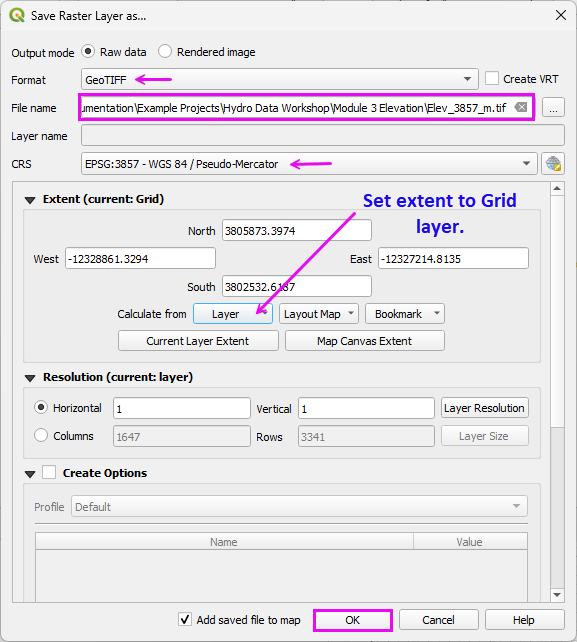
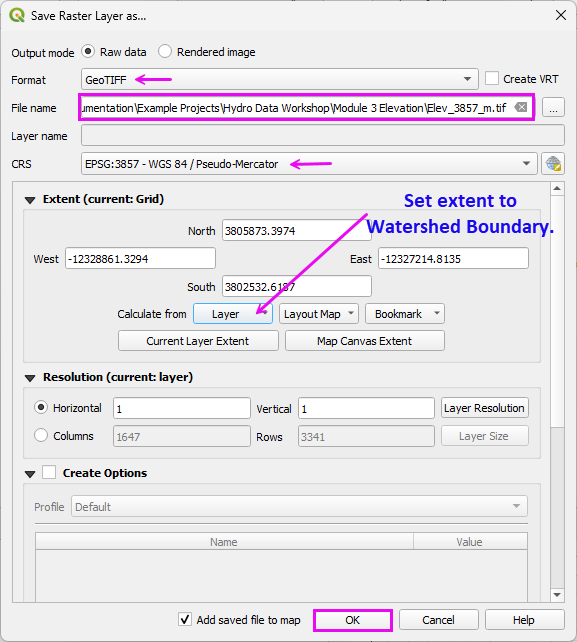
update delineate watershed section

Changed region(s): [[0.4991, 0.2804, 0.9671, 0.4361], [0.4679, 0.4361, 0.4991, 0.4673], [0.4367, 0.4673, 0.4679, 0.4984]]

diff --git a/source/tutorials/hydrowkshp/hydrowkshp.rst b/source/tutorials/hydrowkshp/hydrowkshp.rst
@@ -180,7 +180,7 @@ Module 2 - Delineate a Watershed
 Step 1: Load data
 +++++++++++++++++++++++++++++++++++++++++++++++++++
 
-Open the Data Source Manager and find the WCS tab.
+Open the Data Source Manager and find the ArcGIS REST tab.
 
 Connect the National Hydrography data server.
 
@@ -198,21 +198,66 @@ Wait for the watershed polygons to load.
 
 Use the Select tool to select a watershed polygon.
 
+.. note:: This watershed is already part of the project.  
+   Download it again to learn the process and to get an editable copy.
+
 |hydrow017|
 
-Step 3: Watershed export
+Step 3: Polygon export
 +++++++++++++++++++++++++++++++++++++++++++++++++++
 
 It is easy to export a single watershed polygon or a group of watershed polygons as a Project Domain.
-These can be used for FLO-2D or HEC-RAS 2D or any other 2D model.
+These can be used for FLO-2D or any other 2D model.
 
 Right click the **WBDHU12** layer and click **Export Data>>Save Features As**.
 
 |hydrow018|
 
-Fill the form and export the **Project Domain**.
+Fill the form and export the **Watershed Polygon**.
+
+.. note:: This file needs to use EPSG:3857 because that is also the native elevation CRS.
 
 |hydrow019|
+
+Step 4: Load the Flow Lines
++++++++++++++++++++++++++++++++
+
+Open the Data Manager tool and Load the ArcGIS REST tab.
+
+Select the Hydrography layer and click Connect.
+
+Select the Flowlines Raster and click ADD.
+
+|hydrow019a|
+
+This project uses Soldier Canyon which is the streamline on the north-east side of the map.
+
+|hydrow019b|
+
+Step 5: Trim the Watershed Polygon 
++++++++++++++++++++++++++++++++++++++++
+
+Select the Layer **Watershed Boundary 3857**.
+
+Click the **Edit Pencil**.
+
+Select the **Vertext Tool**
+
+Delete the vertex points that are outside the flow line extent of the Project Area.
+
+.. hint:: Press Ctrl+Z to undo unintended deletions. If the changes are beyond recovery with Undo, toggle off editing mode and decline the save to revert to the last committed state.
+
+Once finished, click untoggle the editor and click Save.
+
+|hydrow019c|
+
+This is the rough project extent.
+
+
+|hydrow019d|
+
+
+
 
 Module 3 - Process Elevation Data
 --------------------------------------
@@ -220,20 +265,17 @@ Module 3 - Process Elevation Data
 Step 1: Zoom to boundary
 +++++++++++++++++++++++++++++++++++++++++++++++++++
 
-Find the Small Boundary layer in External Layer Group.
-
-Right click the Small Boundary and click Zoom to Layer.
+Zoom to the Watershed Boundary.
 
 |hydrow020|
 
 Step 2: Load elevation data
 +++++++++++++++++++++++++++++++++++++++++++++++++++
 
-.. note:: If the process is taking too long, be sure to double check the Extent.
+.. important:: 
+   If the process is taking too long, cancel the download using the Progress Bar and check the extent.
 
-Cancel the connection by **unchecking** the DEP3 layer Cancel the download by clicking the **progress bar** and clicking cancel.
-
-.. important:: Local Agency data may be of better quality than 3DEP data.
+   Local Agency data may be of better quality than 3DEP data.
 
 Open the Data Source Manager and find the WCS tab.
 
@@ -248,14 +290,17 @@ Close the Data Source Manager.
 
 |hydrow021|
 
-Uncheck the layer because it has a heavy connection.
-Right click the layer and select Repair Data Source.
+Uncheck the 3DEP layer to prevent loading issues caused by its active data connection. 
+
+Then right-click the layer and choose Repair Data Source to reestablish the link.
 
 |hydrow022|
 
 Expand the WCS group
 
 Expand the 3DEP group Select the first layer and click OK.
+
+.. note:: Not certain why this reload step is necessary but it seems to work for all WCS connections.
 
 |hydrow023|
 
@@ -269,24 +314,25 @@ Right click the DEP3Elevation layer and Export a small bit of elevation data.
 Set the file path.
 Make sure the CRS is 3857.
 
-Limit the Extent to Grid Layer or Map Canvas if zoomed into the project area.
+Limit the Extent to Watershed Boundary Layer or Map Canvas if zoomed into the project area.
+
+If this process is too time consuming, try this site:
+
+.. raw:: html
+
+   <a href="https://apps.nationalmap.gov/downloader/" target="_blank">USGS Data Downloader</a>
+   <p></p>
 
 |hydrow025|
 
-Step 4: Convert data to feet and interpolate to grid
+Step 4: Convert data to feet
 +++++++++++++++++++++++++++++++++++++++++++++++++++++++
 
 Use the FLO-2D **Pre-processing Tools** to convert the units of the raster.
 
 |hydrow026|
 
-Use the **Grid Tools** >> **Sample Elevation** to interpolate the elevation to the grid.
 
-|hydrow027|
-
-Set the Source Raster to the correct elevation layer and click OK.
-
-|hydrow028|
 
 Module 4 - Process Manning’s Roughness Data
 ------------------------------------------------
@@ -649,7 +695,15 @@ The plugin developer seems to be very responsive to requests for development.
 
 .. |hydrow019| image:: ../img/hydrowkshp/hydrow019.png
 
-.. |hydrow020| image:: ../img/hydrowkshp/hydrow020.jpg
+.. |hydrow019| image:: ../img/hydrowkshp/hydrow019a.png
+
+.. |hydrow019| image:: ../img/hydrowkshp/hydrow019b.png
+
+.. |hydrow019| image:: ../img/hydrowkshp/hydrow019c.png
+
+.. |hydrow019| image:: ../img/hydrowkshp/hydrow019d.png     
+
+.. |hydrow020| image:: ../img/hydrowkshp/hydrow020.png
 
 .. |hydrow021| image:: ../img/hydrowkshp/hydrow021.jpg
 
@@ -755,3 +809,10 @@ The plugin developer seems to be very responsive to requests for development.
 
 .. |hydrow072| image:: ../img/hydrowkshp/hydrow072.jpg
 
+Use the **Grid Tools** >> **Sample Elevation** to interpolate the elevation to the grid.
+
+|hydrow027|
+
+Set the Source Raster to the correct elevation layer and click OK.
+
+|hydrow028|
